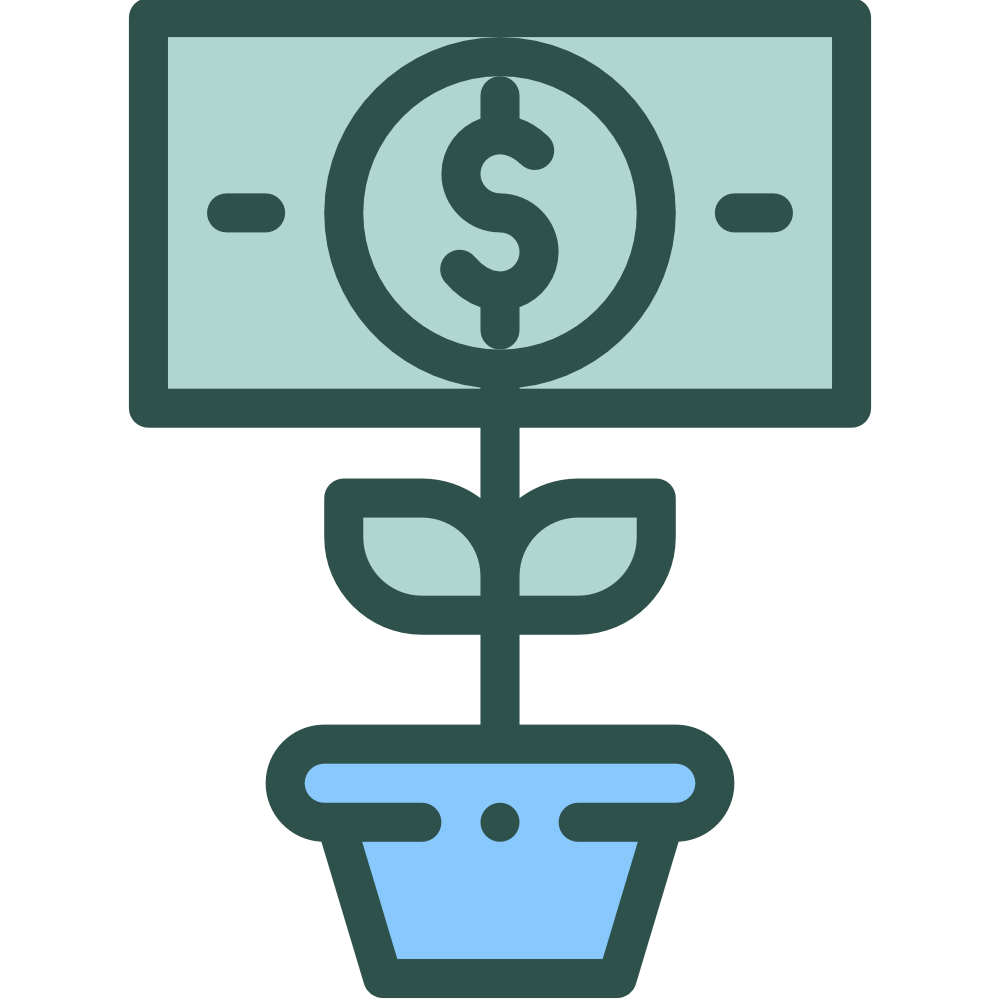
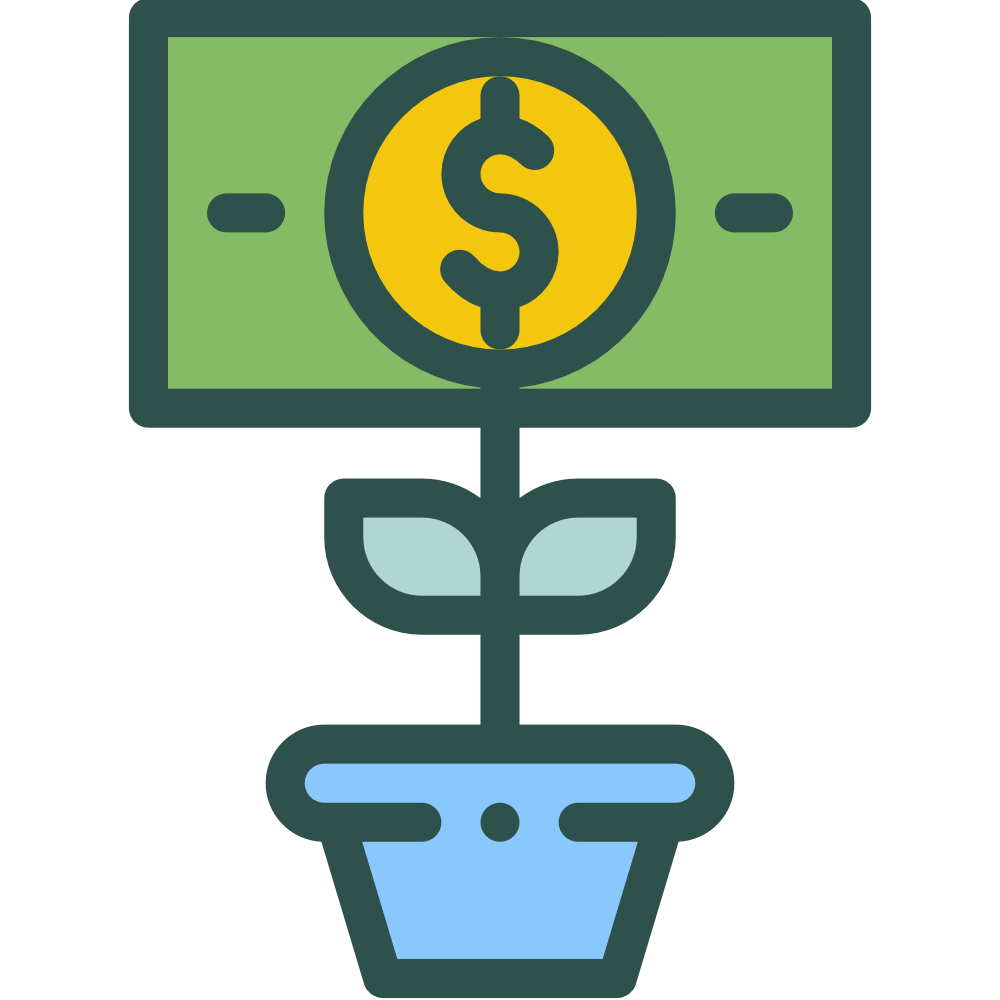
updated image

Changed region(s): [[0.155, 0.031, 0.837, 0.403]]

diff --git a/solution.html b/solution.html
@@ -74,9 +74,8 @@
         <p>
           cFood gir forbrukere oversikt og veiledning til mer bærekraftig konsum
           ved å bytte ut enkelte matvarer mot alternativer med lavere
-          fotavtrykk.<br>
-          Produktene vurderes på forskjellige parametere i fire
-          kategorier:
+          fotavtrykk.<br />
+          Produktene vurderes på forskjellige parametere i fire kategorier:
         </p>
       </div>
 
@@ -91,59 +90,65 @@
               <p class="weighted-text">Miljøbelastning</p>
             </div>
             <div class="info-box-w-img-long-right">
-              <p>Totalt CO2 utslipp fra varens produksjon og transport,
-                vannforbruk og arealforbruk [kilde]</p>
+              <p>
+                Totalt CO2 utslipp fra varens produksjon og transport,
+                vannforbruk og arealforbruk [kilde]
+              </p>
             </div>
           </div>
 
           <div class="info-box-w-img-long">
             <div class="info-box-w-img-long-left">
-            <img
-              src="assets/img/decorative/ecology.svg"
-              alt="Tegning av åker"
-            />
-            <p class="weighted-text">Økologi</p>
+              <img
+                src="assets/img/decorative/ecology.svg"
+                alt="Tegning av åker"
+              />
+              <p class="weighted-text">Økologi</p>
+            </div>
+            <div class="info-box-w-img-long-right">
+              <p>
+                Basert på produksjonsfaktorer som bruk av syntetiske
+                plantevernmidler og kunstgjødsel. Vi benytter oss av
+                eksisterende merking, eksempelvis Debios Ø-merke.
+              </p>
+            </div>
           </div>
-          <div class="info-box-w-img-long-right">
-            <p>Basert på produksjonsfaktorer som bruk av syntetiske plantevernmidler og
-            kunstgjødsel. Vi benytter oss av eksisterende merking, eksempelvis
-            Debios Ø-merke.</p>
-          </div>
-        </div>
 
           <div class="info-box-w-img-long">
             <div class="info-box-w-img-long-left">
-            <img
-              src="assets/img/decorative/ethics.svg"
-              alt="Tegning av engel og djevel"
-            />
-            <p class="weighted-text">Etikk</p>
+              <img
+                src="assets/img/decorative/ethics.svg"
+                alt="Tegning av engel og djevel"
+              />
+              <p class="weighted-text">Etikk</p>
+            </div>
+            <div class="info-box-w-img-long-right">
+              <p>
+                Hvorvidt arbeidere, dyr og andre ledd i produksjonen behandles
+                på en verdig måte. Tar utgangspunkt i merking som Fairtrade,
+                Dyrevernmerket etc. [kilde]
+              </p>
+            </div>
           </div>
-          <div class="info-box-w-img-long-right">
-            <p>Hvorvidt arbeidere, dyr og
-            andre ledd i produksjonen behandles på en verdig måte. Tar
-            utgangspunkt i merking som Fairtrade, Dyrevernmerket etc. [kilde]
-            </p>
-          </div>
-        </div>
 
-        <div class="info-box-w-img-long">
-          <div class="info-box-w-img-long-left">
-            <img
-              src="assets/img/decorative/recycle.svg"
-              alt="Tegning av en ku"
-            />
-            <p class="weighted-text">Resirkulering</p>
-          </div>
-          <div class="info-box-w-img-long-right">
-            <p>En sammenligning av ulik emballasje på lignende produkter, og
-              produktenes muligheter for resirkulering. Basert på merking fra
-              Grønt Punkt Norge [kilde].
-            </p>
+          <div class="info-box-w-img-long">
+            <div class="info-box-w-img-long-left">
+              <img
+                src="assets/img/decorative/recycle.svg"
+                alt="Tegning av en ku"
+              />
+              <p class="weighted-text">Resirkulering</p>
+            </div>
+            <div class="info-box-w-img-long-right">
+              <p>
+                En sammenligning av ulik emballasje på lignende produkter, og
+                produktenes muligheter for resirkulering. Basert på merking fra
+                Grønt Punkt Norge [kilde].
+              </p>
+            </div>
           </div>
         </div>
       </div>
-    </div>
 
       <div class="title-btn-paragraph-container">
         <a href="#read-more" class="button green-btn"
@@ -158,7 +163,7 @@
       <div class="img-text-row-container">
         <img
           class="m-top-25"
-          src="assets/img/decorative/money-plant-solution2.png"
+          src="assets/img/decorative/money-plant-solution.png"
           alt="earth"
         />
 
@@ -174,13 +179,26 @@
           </p>
 
           <p>
-            <span class="weighted-text">cFood</span> gir deg de beste <span class="weighted-text">insentivene</span>:<br>
-            <img class="button-icon" src="assets/img/icons/right-arrow.svg" alt="høyre pil">
-            Reduser ditt fotavtrykk <br>
-            <img class="button-icon" src="assets/img/icons/right-arrow.svg" alt="høyre pil">
-            Bidra til å forme en mer bærekraftig matindustri<br>
-            <img class="button-icon" src="assets/img/icons/right-arrow.svg" alt="høyre pil">
-            Spar penger gjennom rabattkuponger<br>
+            <span class="weighted-text">cFood</span> gir deg de beste
+            <span class="weighted-text">insentivene</span>:<br />
+            <img
+              class="button-icon"
+              src="assets/img/icons/right-arrow.svg"
+              alt="høyre pil"
+            />
+            Reduser ditt fotavtrykk <br />
+            <img
+              class="button-icon"
+              src="assets/img/icons/right-arrow.svg"
+              alt="høyre pil"
+            />
+            Bidra til å forme en mer bærekraftig matindustri<br />
+            <img
+              class="button-icon"
+              src="assets/img/icons/right-arrow.svg"
+              alt="høyre pil"
+            />
+            Spar penger gjennom rabattkuponger<br />
           </p>
 
           <a href="app.html" class="button green-btn">Les om appen</a>
